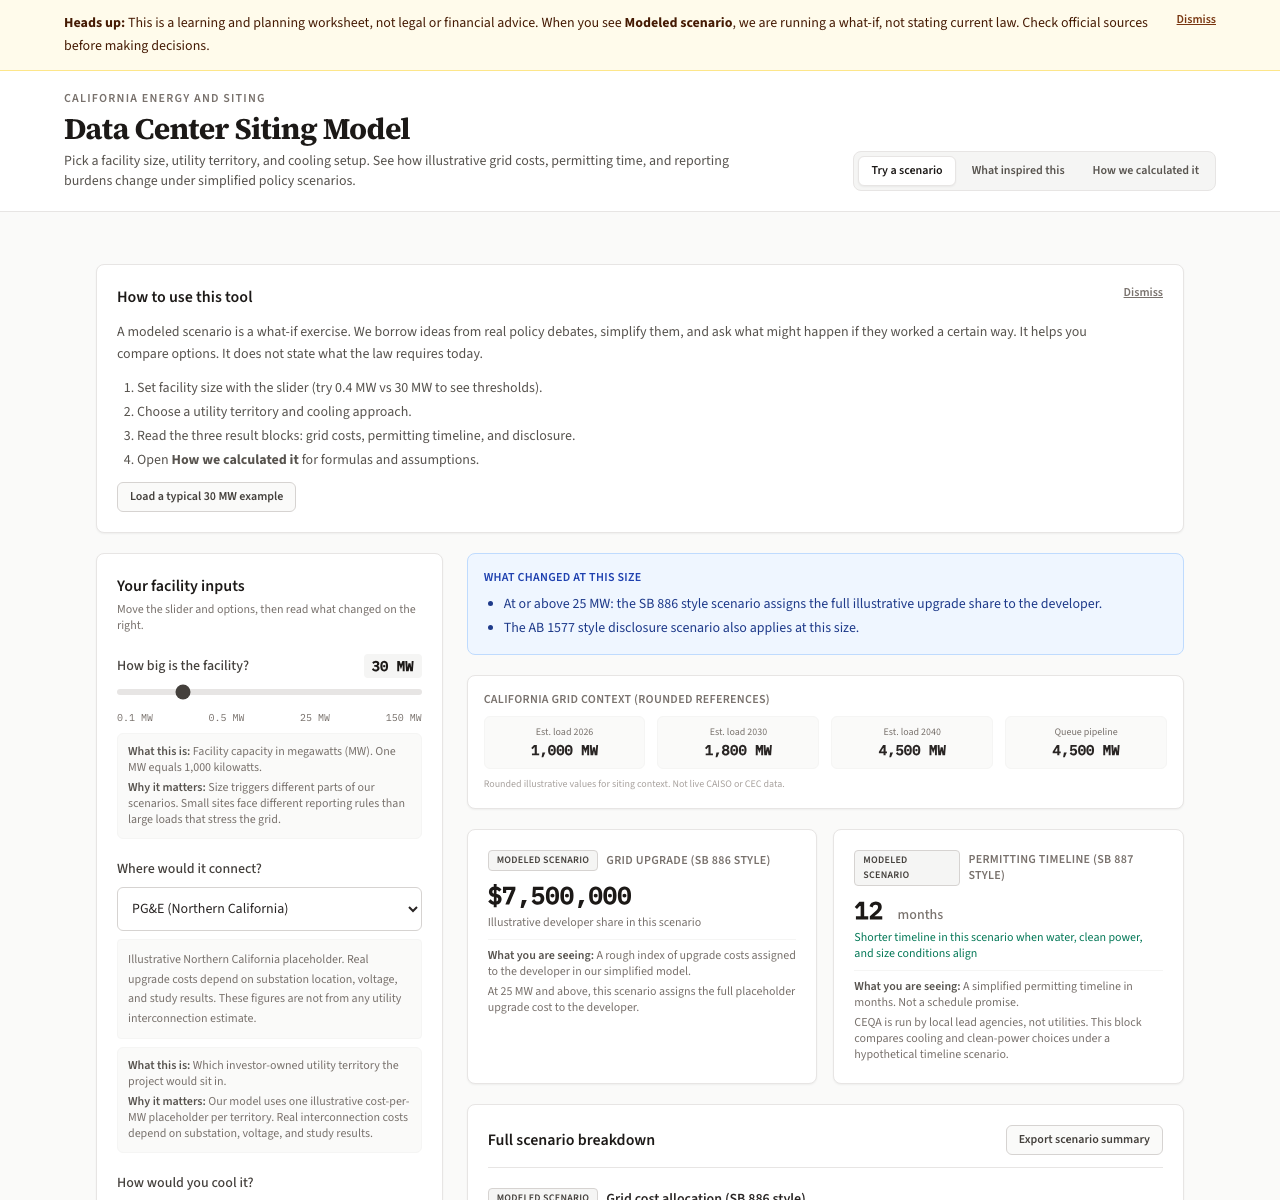
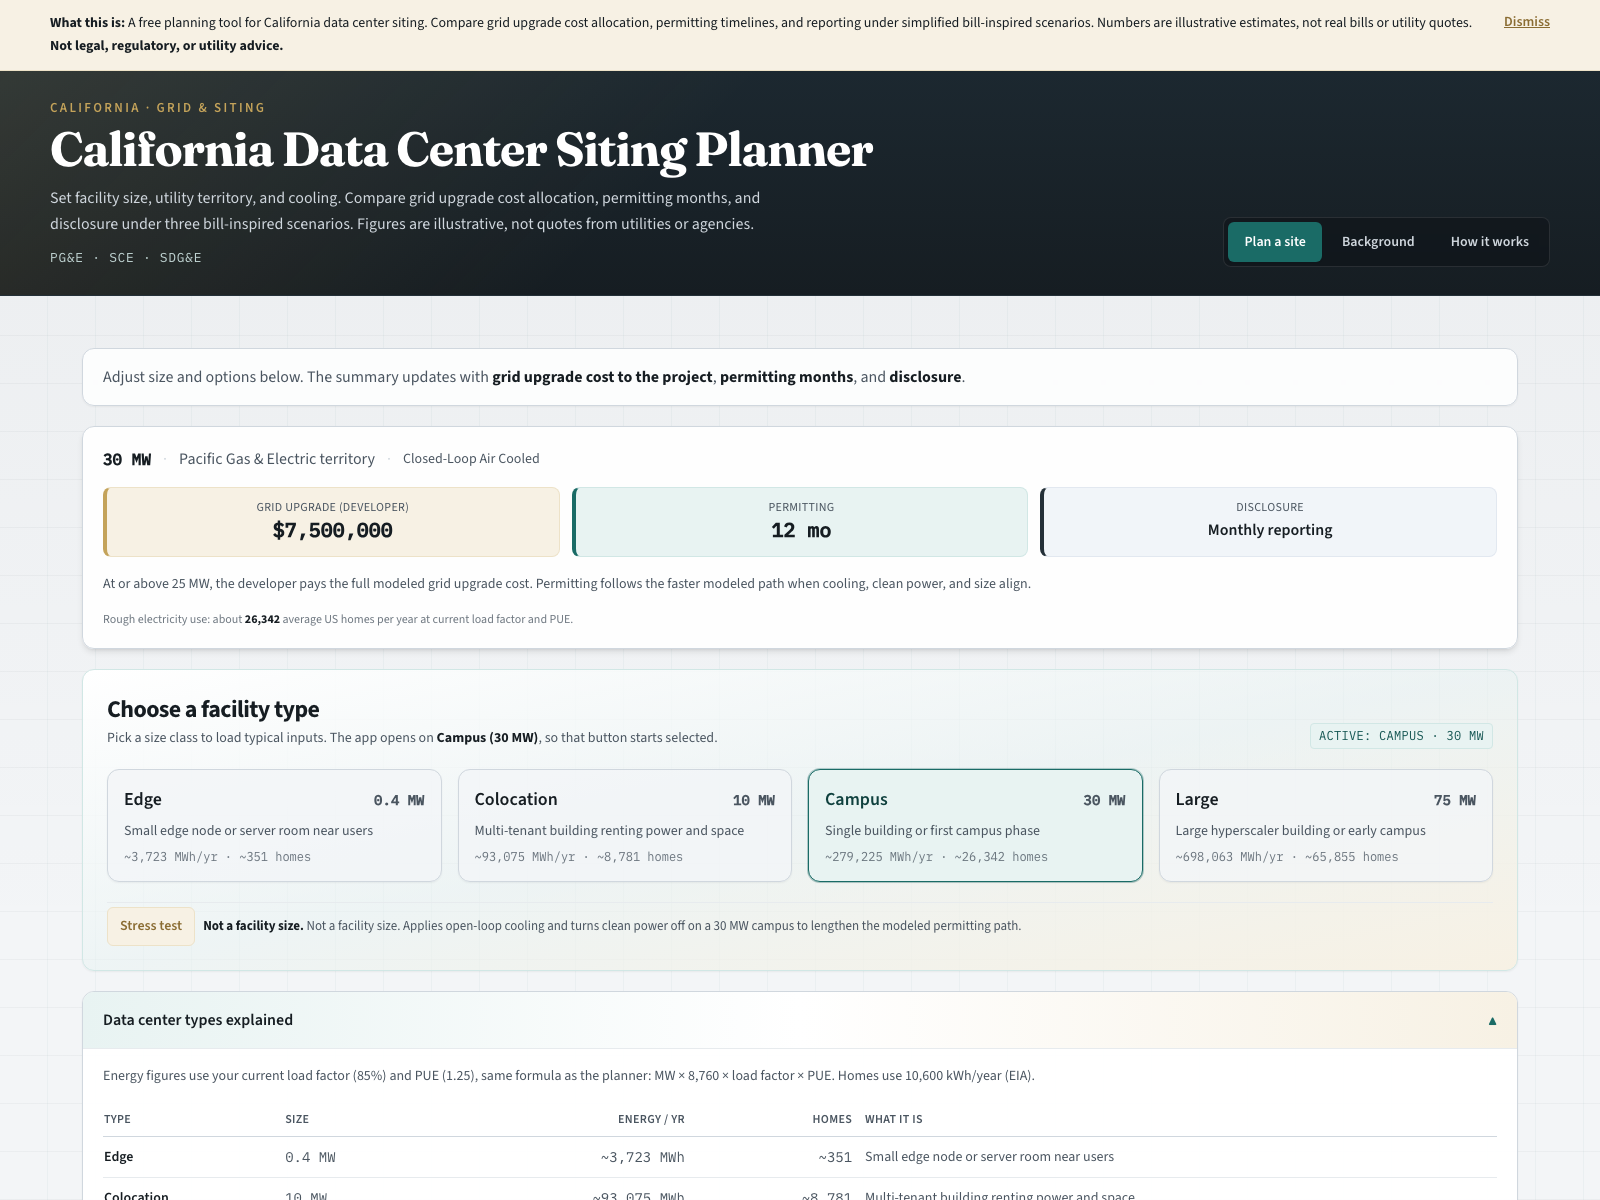
Widen layout, swap facility-type heading font, update screenshot

diff --git a/index.html b/index.html
@@ -1415,7 +1415,7 @@
         <div className="flex-1 flex flex-col min-h-screen site-atmosphere">
           {!disclaimerDismissed && (
             <div className="no-print bg-chaparral-50 border-b border-chaparral-100 px-4 py-3" role="note">
-              <div className="max-w-6xl mx-auto flex flex-col sm:flex-row sm:items-start gap-3 justify-between">
+              <div className="max-w-[1500px] mx-auto flex flex-col sm:flex-row sm:items-start gap-3 justify-between">
                 <p className="text-sm text-asphalt-900 leading-relaxed">
                   <strong>What this is:</strong> {baselines.metadata.topBarBriefing} <strong>{baselines.metadata.disclaimer}</strong>
                 </p>
@@ -1430,7 +1430,7 @@
           )}
 
           <header className="no-print header-sheen border-b border-asphalt-800 px-6 py-7 text-white">
-            <div className="max-w-7xl mx-auto flex flex-col gap-6 lg:flex-row lg:items-end lg:justify-between">
+            <div className="max-w-[1500px] mx-auto flex flex-col gap-6 lg:flex-row lg:items-end lg:justify-between">
               <div className="max-w-4xl">
                 <p className="text-[11px] font-semibold uppercase tracking-[0.18em] text-chaparral-500 mb-2">
                   {baselines.metadata.appEyebrow}
@@ -1464,7 +1464,7 @@
           </header>
 
           {activeTab === 'plan' && (
-            <main className="flex-1 max-w-7xl w-full mx-auto p-5 sm:p-8 space-y-5 tab-panel-enter">
+            <main className="flex-1 max-w-[1500px] w-full mx-auto p-5 sm:p-8 space-y-5 tab-panel-enter">
               <div className="print-only mb-4 border-b border-stone-300 pb-4">
                 <h1 className="font-serif text-2xl font-bold text-stone-900">Scenario summary</h1>
                 <p className="text-sm text-stone-600 mt-1">
@@ -1509,7 +1509,7 @@
               <section className="no-print bg-gradient-to-br from-white via-pacific-50/50 to-chaparral-50 border border-pacific-100 rounded-xl p-5 sm:p-6 shadow-sm space-y-5">
                 <div className="flex flex-wrap items-end justify-between gap-2">
                   <div>
-                    <h2 className="font-serif text-2xl font-bold text-asphalt-900">Choose a facility type</h2>
+                    <h2 className="text-2xl font-bold tracking-tight text-asphalt-900">Choose a facility type</h2>
                     <p className="text-xs text-fog-700 mt-0.5">
                       Pick a size class to load typical inputs. The app opens on <strong className="text-asphalt-900">Campus (30 MW)</strong>, so that button starts selected.
                     </p>
@@ -2147,7 +2147,7 @@
           )}
 
           {activeTab === 'background' && (
-            <main className="flex-1 max-w-7xl w-full mx-auto p-5 sm:p-8 space-y-6 tab-panel-enter">
+            <main className="flex-1 max-w-[1500px] w-full mx-auto p-5 sm:p-8 space-y-6 tab-panel-enter">
               <div className="section-kicker">
                 <h2 className="font-serif text-3xl font-bold text-asphalt-900">Background</h2>
                 <p className="text-sm text-fog-700 mt-1 leading-relaxed max-w-3xl">
@@ -2231,7 +2231,7 @@
           )}
 
           {activeTab === 'how-it-works' && (
-            <main className="flex-1 max-w-6xl w-full mx-auto p-5 sm:p-8 space-y-6 tab-panel-enter">
+            <main className="flex-1 max-w-7xl w-full mx-auto p-5 sm:p-8 space-y-6 tab-panel-enter">
               <div className="section-kicker">
                 <h2 className="font-serif text-3xl font-bold text-asphalt-900">How it works</h2>
                 <p className="text-sm text-fog-700 mt-1 leading-relaxed max-w-3xl">
